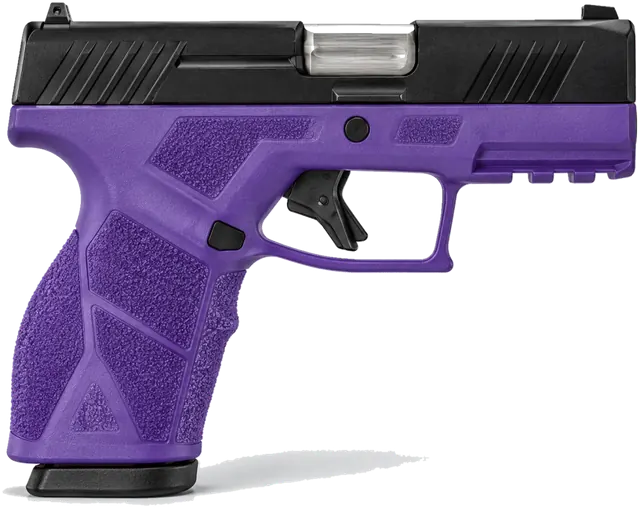
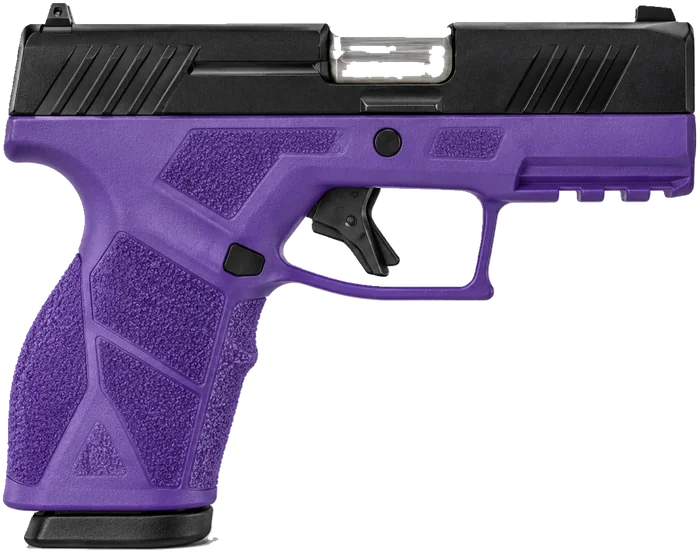
photoreal: remove photographed floor shadows from 3D silhouette meshes and restore crisp high-resolution source textures

diff --git a/img2three/viewer/src/referenceContourData.ts b/img2three/viewer/src/referenceContourData.ts
@@ -1,2 +1,2 @@
-/* Contours vectorized from the original user references, not AI-invented outlines. */
-export default {"compact":{"aspect":1.25984,"contours":[[[0.00469,0.9685],[0.01719,0.97441],[0.0375,0.97638],[0.04375,0.98425],[0.05781,0.98622],[0.07656,0.98425],[0.10938,0.99016],[0.19531,0.98819],[0.22656,0.99409],[0.24531,0.99016],[0.25312,0.99213],[0.27344,0.98622],[0.3,0.98425],[0.30312,0.97638],[0.3125,0.97244],[0.36094,0.96654],[0.37656,0.96063],[0.37969,0.9626],[0.4125,0.95669],[0.42656,0.95079],[0.46406,0.94685],[0.47656,0.94094],[0.48281,0.94291],[0.51562,0.93898],[0.51875,0.93504],[0.54219,0.9311],[0.55156,0.93307],[0.55625,0.92913],[0.57031,0.92913],[0.58594,0.91929],[0.60469,0.92126],[0.61562,0.91535],[0.62031,0.91732],[0.63125,0.90748],[0.63594,0.90945],[0.65469,0.90551],[0.65781,0.89961],[0.64219,0.89961],[0.63906,0.89567],[0.63438,0.89961],[0.63125,0.89567],[0.625,0.89764],[0.61406,0.8878],[0.58437,0.88976],[0.58281,0.88583],[0.44375,0.8878],[0.43906,0.89173],[0.39844,0.89567],[0.39219,0.89961],[0.38594,0.89764],[0.36406,0.90551],[0.35469,0.90551],[0.33125,0.91732],[0.31719,0.92126],[0.31094,0.91929],[0.31094,0.90748],[0.30625,0.90157],[0.31406,0.89173],[0.31719,0.84252],[0.35156,0.6811],[0.37188,0.6437],[0.37344,0.62992],[0.37031,0.62008],[0.37031,0.59252],[0.38438,0.5315],[0.40781,0.50787],[0.43125,0.50394],[0.47969,0.52362],[0.53125,0.53543],[0.7,0.53543],[0.70781,0.52559],[0.70781,0.51575],[0.7,0.49409],[0.7,0.47835],[0.7125,0.38386],[0.72344,0.36614],[0.73438,0.36024],[0.79688,0.36024],[0.8,0.3563],[0.80156,0.34055],[0.82344,0.34055],[0.825,0.35433],[0.82969,0.36024],[0.86094,0.36024],[0.86719,0.34055],[0.88594,0.34055],[0.8875,0.35236],[0.89375,0.36024],[0.92344,0.36024],[0.92812,0.3563],[0.93125,0.34055],[0.94688,0.34055],[0.95312,0.35236],[0.96719,0.35236],[0.98594,0.34646],[0.99219,0.33465],[0.99219,0.29528],[0.99531,0.27165],[0.99531,0.22244],[0.99219,0.20669],[0.99375,0.09646],[0.99219,0.05709],[0.9875,0.04331],[0.97969,0.0374],[0.96719,0.0374],[0.95937,0.01378],[0.91563,0.00787],[0.90781,0.01575],[0.90625,0.0374],[0.64844,0.03937],[0.63906,0.04724],[0.475,0.04724],[0.47031,0.04134],[0.11406,0.04134],[0.11094,0.0374],[0.10469,0.00984],[0.09688,0.00394],[0.08125,0.00394],[0.06875,0.04134],[0.05,0.04134],[0.04219,0.04528],[0.0375,0.05315],[0.01875,0.18701],[0.01875,0.20866],[0.01562,0.21457],[0.01094,0.26575],[0.01719,0.28346],[0.025,0.28937],[0.05469,0.28937],[0.06875,0.29331],[0.09688,0.31299],[0.1125,0.33465],[0.12187,0.3563],[0.12656,0.38189],[0.12656,0.40157],[0.11719,0.44291],[0.11875,0.44882],[0.09688,0.48425],[0.05312,0.57283],[0.03594,0.62008],[0.02813,0.65157],[0.01875,0.72244],[0.01875,0.79921],[0.01094,0.89567],[0.02187,0.90748],[0.03438,0.91142],[0.05312,0.91142],[0.05469,0.91732],[0.03906,0.95669],[0.00937,0.96063]]],"holes":[[[0.40937,0.44094],[0.41406,0.42913],[0.42031,0.42126],[0.43438,0.39567],[0.44062,0.3878],[0.44375,0.3878],[0.44844,0.39173],[0.44844,0.40748],[0.45312,0.41535],[0.49219,0.4311],[0.50625,0.44882],[0.52344,0.48228],[0.52812,0.48819],[0.5375,0.49213],[0.54375,0.49213],[0.54531,0.49409],[0.55469,0.49409],[0.55937,0.48819],[0.55781,0.47638],[0.55937,0.47441],[0.56875,0.47441],[0.57344,0.4685],[0.575,0.4626],[0.55469,0.4252],[0.55,0.41929],[0.53438,0.3878],[0.53438,0.37598],[0.54219,0.3563],[0.54688,0.33858],[0.55,0.33465],[0.55625,0.33465],[0.55781,0.33661],[0.60625,0.33661],[0.60781,0.33858],[0.66563,0.34055],[0.66719,0.34252],[0.67188,0.34252],[0.67969,0.34843],[0.68594,0.3563],[0.69063,0.36811],[0.69063,0.40945],[0.68906,0.41142],[0.68906,0.4252],[0.6875,0.42717],[0.6875,0.43701],[0.68437,0.44882],[0.68437,0.45866],[0.68281,0.46063],[0.68125,0.47835],[0.67656,0.49606],[0.66719,0.50787],[0.6625,0.50984],[0.54375,0.50984],[0.54219,0.50787],[0.52656,0.50787],[0.525,0.50591],[0.51406,0.50591],[0.5125,0.50394],[0.49688,0.50197],[0.49531,0.5],[0.47187,0.49409],[0.43906,0.48031],[0.43438,0.47638],[0.42656,0.47441],[0.41719,0.4685],[0.4125,0.4626],[0.40937,0.45472]],[[0.475,0.05315],[0.48438,0.04921],[0.48906,0.05118],[0.49531,0.05118],[0.49688,0.04921],[0.62344,0.04921],[0.625,0.05118],[0.64531,0.05118],[0.64687,0.05709],[0.64219,0.06299],[0.63594,0.06693],[0.48906,0.06496],[0.47813,0.05906]]],"pixelSize":[640,508]},"purple":{"aspect":1.51844,"contours":[[[0.01143,0.08243],[0.00714,0.09544],[0.00429,0.11931],[0.00429,0.20824],[0.01,0.24946],[0.02,0.26464],[0.03857,0.26681],[0.06,0.26247],[0.34857,0.26247],[0.35,0.26464],[0.36286,0.26247],[0.36429,0.26681],[0.35714,0.28633],[0.35429,0.30369],[0.35429,0.32538],[0.35714,0.34707],[0.36,0.35358],[0.38429,0.36876],[0.39429,0.38395],[0.39571,0.44685],[0.39,0.46204],[0.38857,0.48807],[0.42571,0.54664],[0.43286,0.55098],[0.44,0.55098],[0.45571,0.53796],[0.48286,0.53796],[0.48429,0.54013],[0.51857,0.54013],[0.53143,0.54447],[0.53857,0.55315],[0.55286,0.55315],[0.57143,0.54447],[0.59143,0.52928],[0.60286,0.52928],[0.61286,0.53579],[0.62,0.54664],[0.62714,0.57484],[0.63143,0.58351],[0.63143,0.59219],[0.63571,0.5987],[0.63571,0.60738],[0.64,0.61605],[0.64,0.63124],[0.63571,0.64425],[0.63571,0.6551],[0.64143,0.66377],[0.64714,0.66594],[0.65429,0.67462],[0.66,0.70065],[0.66429,0.70933],[0.66429,0.718],[0.66857,0.72668],[0.66714,0.72885],[0.66857,0.73536],[0.66286,0.76139],[0.68286,0.78525],[0.68857,0.8026],[0.68857,0.81128],[0.69286,0.81779],[0.69286,0.82646],[0.7,0.85249],[0.69857,0.88069],[0.70286,0.88937],[0.70714,0.91106],[0.72,0.93492],[0.72143,0.95445],[0.72857,0.97614],[0.73429,0.98482],[0.76,0.99349],[0.90143,0.99349],[0.90714,0.98698],[0.90143,0.95228],[0.92286,0.94794],[0.93143,0.94143],[0.95143,0.91106],[0.95571,0.89805],[0.95429,0.85466],[0.95143,0.84165],[0.94857,0.83948],[0.94571,0.81128],[0.94143,0.8026],[0.94143,0.79393],[0.93714,0.78525],[0.93714,0.77874],[0.93286,0.77007],[0.92857,0.74837],[0.92286,0.73753],[0.92286,0.72885],[0.91714,0.72017],[0.91571,0.70933],[0.91143,0.70499],[0.90857,0.69197],[0.90429,0.6898],[0.90571,0.68547],[0.89857,0.67245],[0.89714,0.66377],[0.89,0.6551],[0.89,0.64859],[0.88429,0.63991],[0.88286,0.63124],[0.87714,0.62473],[0.87571,0.61388],[0.87143,0.60954],[0.87,0.5987],[0.86429,0.59002],[0.86571,0.58568],[0.86,0.57484],[0.85857,0.56182],[0.85571,0.55965],[0.85571,0.55098],[0.84286,0.49892],[0.83714,0.46204],[0.83429,0.42299],[0.83571,0.37527],[0.84,0.36226],[0.86,0.33406],[0.87429,0.32538],[0.89857,0.31887],[0.94429,0.31887],[0.95571,0.30369],[0.96714,0.30152],[0.97,0.29284],[0.97,0.26464],[0.98,0.24078],[0.98571,0.21692],[0.99286,0.21041],[0.99429,0.13883],[0.98714,0.13449],[0.98429,0.10629],[0.97857,0.09761],[0.97429,0.08243],[0.97,0.07809],[0.95714,0.07809],[0.95571,0.07158],[0.95,0.06508],[0.93143,0.06508],[0.92286,0.07809],[0.91286,0.07592],[0.91857,0.05857],[0.92286,0.02169],[0.92143,0.01735],[0.90714,0.01518],[0.87857,0.0282],[0.86,0.02603],[0.84429,0.03905],[0.78571,0.03905],[0.77429,0.05857],[0.77286,0.06941],[0.77571,0.07375],[0.77429,0.07809],[0.72286,0.07809],[0.72143,0.08026],[0.22286,0.07809],[0.22143,0.06291],[0.21714,0.05857],[0.18,0.04555],[0.14,0.04338],[0.13571,0.03037],[0.13571,0.01302],[0.13143,0.00651],[0.12143,0.00651],[0.11714,0.01302],[0.11143,0.01518],[0.09,0.01518],[0.08714,0.01085],[0.07857,0.01085],[0.07571,0.01518],[0.07143,0.03905],[0.06714,0.04989],[0.06571,0.07592],[0.01857,0.07592]]],"holes":[[[0.42143,0.38178],[0.42857,0.3731],[0.44429,0.36443],[0.45714,0.36443],[0.45857,0.36659],[0.47286,0.36659],[0.47429,0.36876],[0.49143,0.36876],[0.49286,0.37093],[0.51429,0.37093],[0.51571,0.3731],[0.52143,0.3731],[0.52286,0.37527],[0.52286,0.38178],[0.52,0.38829],[0.52,0.40347],[0.51714,0.41215],[0.51714,0.4295],[0.49429,0.47939],[0.49429,0.4859],[0.49571,0.48807],[0.50286,0.48807],[0.50714,0.49241],[0.51,0.50542],[0.50857,0.50759],[0.44143,0.50542],[0.42857,0.49675],[0.41714,0.47939],[0.41143,0.46204],[0.41143,0.40781],[0.41571,0.39262]],[[0.57714,0.40564],[0.58571,0.42516],[0.58571,0.45553],[0.57714,0.48156],[0.56571,0.49892],[0.55857,0.50542],[0.55,0.50976],[0.51857,0.50976],[0.51714,0.50542],[0.53143,0.49024],[0.53571,0.46204],[0.55,0.44469],[0.55143,0.43818],[0.55714,0.4295],[0.56714,0.42733],[0.57,0.42299],[0.57,0.41649],[0.56857,0.41432],[0.57429,0.40564]],[[0.18286,0.12148],[0.18714,0.11714],[0.2,0.11714],[0.20143,0.11931],[0.20429,0.11714],[0.21,0.11714],[0.21143,0.11931],[0.21857,0.11931],[0.22,0.11714],[0.22286,0.11931],[0.25429,0.11931],[0.25571,0.11714],[0.26,0.11714],[0.26143,0.11931],[0.27,0.11931],[0.27286,0.12148],[0.27714,0.12798],[0.27714,0.13666],[0.27286,0.14317],[0.20143,0.14317],[0.2,0.141],[0.19,0.141],[0.18286,0.13015]],[[0.18286,0.2039],[0.18571,0.19957],[0.26429,0.19957],[0.27143,0.2039],[0.27714,0.21258],[0.27714,0.21692],[0.27429,0.22126],[0.19143,0.22126],[0.18286,0.21258]],[[0.30429,0.12364],[0.30857,0.11931],[0.33,0.11931],[0.33429,0.12148],[0.33857,0.12798],[0.33857,0.13666],[0.33286,0.14317],[0.31429,0.14317],[0.30571,0.13449]],[[0.30429,0.20607],[0.30714,0.20174],[0.33,0.20174],[0.33857,0.21258],[0.33857,0.21692],[0.33571,0.22126],[0.31286,0.22126],[0.30857,0.21909],[0.30429,0.21258]],[[0.12286,0.12148],[0.12714,0.11714],[0.14429,0.11931],[0.15,0.12581],[0.15,0.13666],[0.14571,0.14317],[0.14286,0.141],[0.13143,0.141],[0.12286,0.13015]],[[0.12286,0.20607],[0.12714,0.19957],[0.13857,0.19957],[0.14571,0.2039],[0.14857,0.20824],[0.15,0.21909],[0.14857,0.22126],[0.13286,0.22126],[0.12571,0.21692]],[[0.09143,0.0282],[0.09286,0.02386],[0.10857,0.02386],[0.11,0.02603],[0.10571,0.03254],[0.09429,0.03254]]],"pixelSize":[700,461]},"rifle":{"aspect":2.49158,"contours":[[[0.01892,0.61953],[0.03108,0.6532],[0.07162,0.6532],[0.07568,0.63973],[0.08108,0.63636],[0.09595,0.3468],[0.10676,0.3569],[0.15405,0.35354],[0.16081,0.33333],[0.15946,0.3064],[0.16216,0.29966],[0.22432,0.29293],[0.23514,0.26263],[0.23514,0.24242],[0.2473,0.23906],[0.24865,0.22222],[0.25405,0.21886],[0.25676,0.20875],[0.28378,0.21549],[0.28649,0.27609],[0.30811,0.29293],[0.32027,0.33333],[0.32027,0.40067],[0.25,0.71044],[0.28649,0.74074],[0.33784,0.76768],[0.34595,0.73737],[0.33919,0.71717],[0.33919,0.70034],[0.36081,0.57912],[0.37568,0.56566],[0.37027,0.54209],[0.37027,0.52862],[0.38108,0.47811],[0.38649,0.47138],[0.40946,0.47475],[0.46216,0.46465],[0.46757,0.50842],[0.47838,0.67677],[0.4973,0.85522],[0.48649,0.86195],[0.44459,0.85522],[0.43919,0.84848],[0.38919,0.84512],[0.35,0.85522],[0.27973,0.85522],[0.25135,0.86195],[0.26486,0.86869],[0.31622,0.87205],[0.34189,0.86869],[0.35405,0.85859],[0.42568,0.85859],[0.49595,0.87542],[0.4973,0.88552],[0.49324,0.91246],[0.49595,0.93603],[0.52297,0.93939],[0.52838,0.95286],[0.52432,0.9596],[0.52162,0.94949],[0.52027,0.9596],[0.51351,0.96633],[0.50405,0.9596],[0.50405,0.9697],[0.52162,0.96296],[0.52297,0.9697],[0.53514,0.96633],[0.54459,0.97643],[0.55676,0.97643],[0.5527,0.9697],[0.54189,0.9697],[0.54054,0.9596],[0.55405,0.95623],[0.56216,0.94276],[0.54865,0.94276],[0.54324,0.93603],[0.54459,0.92929],[0.55946,0.93266],[0.57297,0.92256],[0.57838,0.92593],[0.58514,0.91582],[0.58243,0.90236],[0.56622,0.88889],[0.56622,0.87879],[0.59324,0.87879],[0.61081,0.86869],[0.64189,0.86532],[0.64054,0.85859],[0.59324,0.86532],[0.56351,0.85522],[0.56757,0.84512],[0.59054,0.82828],[0.6027,0.81145],[0.59324,0.75758],[0.57703,0.62626],[0.56486,0.49832],[0.56081,0.42424],[0.55811,0.41751],[0.56216,0.38384],[0.55676,0.367],[0.55676,0.28283],[0.56486,0.25589],[0.58919,0.25253],[0.59189,0.25926],[0.61892,0.25926],[0.62432,0.25253],[0.63108,0.25926],[0.63649,0.24916],[0.63919,0.25926],[0.64459,0.25926],[0.65,0.24916],[0.6527,0.25926],[0.65676,0.25926],[0.65946,0.24916],[0.66351,0.24916],[0.66486,0.25926],[0.67027,0.25926],[0.67297,0.24916],[0.67703,0.24916],[0.67973,0.25926],[0.68378,0.25926],[0.68919,0.24916],[0.69189,0.25926],[0.6973,0.25926],[0.70405,0.24916],[0.70676,0.25926],[0.71216,0.25926],[0.71757,0.24916],[0.72027,0.25926],[0.72703,0.25926],[0.73243,0.24916],[0.73514,0.25926],[0.74054,0.25926],[0.74595,0.24916],[0.74865,0.25926],[0.82838,0.25926],[0.83108,0.25253],[0.83784,0.25926],[0.84459,0.25926],[0.8473,0.25253],[0.8527,0.25926],[0.9027,0.25926],[0.90811,0.24916],[0.91351,0.18182],[0.99054,0.17508],[0.99459,0.15488],[0.99459,0.09428],[0.98919,0.07744],[0.91351,0.08081],[0.91081,0.06397],[0.91081,0.0202],[0.90811,0.0101],[0.8973,0.0101],[0.89324,0.01684],[0.89054,0.0101],[0.88243,0.0101],[0.87838,0.0202],[0.87432,0.0101],[0.86892,0.0101],[0.86351,0.02357],[0.86081,0.0101],[0.85405,0.0101],[0.84865,0.02357],[0.84459,0.0101],[0.83784,0.0101],[0.83378,0.02357],[0.83108,0.02357],[0.82838,0.0101],[0.82297,0.0101],[0.81757,0.02357],[0.81351,0.0101],[0.80811,0.0101],[0.8027,0.02357],[0.79865,0.0101],[0.79324,0.0101],[0.78919,0.02357],[0.78649,0.02357],[0.78378,0.0101],[0.77838,0.0101],[0.77297,0.02357],[0.77027,0.02357],[0.76757,0.0101],[0.76216,0.0101],[0.75811,0.02357],[0.7527,0.0101],[0.74865,0.0101],[0.74459,0.02357],[0.73784,0.0101],[0.73243,0.0101],[0.72838,0.02357],[0.72432,0.0202],[0.72432,0.0101],[0.71892,0.0101],[0.71351,0.0202],[0.70946,0.0101],[0.69189,0.0101],[0.68784,0.02357],[0.68514,0.02357],[0.68243,0.0101],[0.67703,0.0101],[0.67297,0.02357],[0.67027,0.02357],[0.66757,0.0101],[0.65946,0.0101],[0.65541,0.02357],[0.65135,0.02357],[0.64865,0.0101],[0.64189,0.0101],[0.63919,0.02357],[0.63649,0.02357],[0.63378,0.0101],[0.62838,0.0101],[0.62432,0.02357],[0.62162,0.02357],[0.61892,0.0101],[0.61351,0.0101],[0.60946,0.02357],[0.60676,0.02357],[0.60405,0.0101],[0.5973,0.0101],[0.59459,0.0202],[0.58649,0.0101],[0.5527,0.0101],[0.55,0.02357],[0.54595,0.02357],[0.54324,0.0101],[0.53919,0.0101],[0.53649,0.02357],[0.53243,0.02357],[0.52838,0.0101],[0.52432,0.0101],[0.52162,0.02357],[0.51757,0.02357],[0.51351,0.0101],[0.50946,0.0101],[0.50676,0.02357],[0.50135,0.02357],[0.49865,0.0101],[0.49459,0.0101],[0.49054,0.02357],[0.48378,0.0101],[0.47973,0.0101],[0.47703,0.02357],[0.47297,0.02357],[0.46892,0.0101],[0.46216,0.02357],[0.45541,0.0101],[0.44865,0.02357],[0.44595,0.02357],[0.44324,0.0101],[0.43919,0.0101],[0.43649,0.02357],[0.43243,0.02357],[0.42838,0.0101],[0.42162,0.02357],[0.41486,0.0101],[0.40946,0.01347],[0.40811,0.02357],[0.3973,0.0101],[0.39459,0.02694],[0.39189,0.02694],[0.38784,0.0101],[0.38378,0.0101],[0.37973,0.02694],[0.37568,0.02357],[0.37297,0.0101],[0.31486,0.01347],[0.30946,0.02694],[0.29189,0.02694],[0.28919,0.08081],[0.27027,0.08418],[0.25946,0.09428],[0.25405,0.07407],[0.08378,0.08081],[0.07297,0.06061],[0.02703,0.06061],[0.01216,0.10101],[0.00405,0.14478],[0.00405,0.19192],[0.00676,0.22896],[0.01081,0.24242]]],"holes":[[[0.39324,0.367],[0.39865,0.35354],[0.40135,0.3569],[0.40135,0.40741],[0.40405,0.42424],[0.41081,0.44444],[0.41486,0.44444],[0.41486,0.44108],[0.41216,0.43434],[0.40946,0.41751],[0.40946,0.38721],[0.41486,0.36027],[0.42297,0.34343],[0.42703,0.3468],[0.44459,0.3468],[0.45,0.35354],[0.45811,0.38047],[0.45811,0.41414],[0.44865,0.45118],[0.40405,0.45455],[0.39865,0.44781],[0.39054,0.42424],[0.39054,0.38047]],[[0.65946,0.08418],[0.66351,0.07744],[0.71486,0.07744],[0.71757,0.08418],[0.71757,0.09428],[0.71622,0.09764],[0.66351,0.09764]],[[0.74054,0.08754],[0.74324,0.07744],[0.76081,0.07744],[0.76351,0.08418],[0.75541,0.09764],[0.74459,0.09764]],[[0.10811,0.2862],[0.11081,0.2862],[0.11486,0.2963],[0.11486,0.31313],[0.11081,0.32323],[0.10541,0.32323],[0.1027,0.31313],[0.1027,0.30303]]],"pixelSize":[740,297]}} as const;
+/* Original user reference alpha silhouettes, resegmented to exclude photographic ground shadows. */
+export default {"compact":{"aspect":1.26582,"contours":[[[0.00429,0.90597],[0.01571,0.91863],[0.02714,0.92224],[0.04571,0.92224],[0.04857,0.92586],[0.03429,0.96926],[0.04,0.98373],[0.03857,0.98915],[0.04143,0.99096],[0.23286,0.99277],[0.29286,0.98553],[0.31,0.97468],[0.30429,0.97288],[0.30286,0.97649],[0.29857,0.97649],[0.29571,0.97288],[0.30143,0.95841],[0.30429,0.92948],[0.30143,0.9132],[0.30857,0.90235],[0.30857,0.87884],[0.31143,0.87342],[0.31143,0.85714],[0.31714,0.82278],[0.32286,0.80832],[0.32143,0.8047],[0.33143,0.76854],[0.33,0.76673],[0.34,0.72875],[0.34571,0.69259],[0.35286,0.6745],[0.36714,0.65099],[0.36857,0.63834],[0.36571,0.62929],[0.36571,0.59855],[0.36857,0.57866],[0.38,0.53707],[0.40429,0.51356],[0.43143,0.51175],[0.46571,0.52622],[0.52143,0.54069],[0.69571,0.5425],[0.70429,0.53526],[0.70429,0.51899],[0.69857,0.50633],[0.69714,0.48463],[0.71,0.38879],[0.72,0.37071],[0.73143,0.36528],[0.79286,0.36528],[0.79714,0.36166],[0.8,0.34358],[0.82143,0.34358],[0.82429,0.34901],[0.82429,0.35986],[0.82714,0.36347],[0.86,0.36347],[0.86286,0.35805],[0.86286,0.3472],[0.86571,0.34358],[0.88429,0.34358],[0.88714,0.34901],[0.88714,0.35986],[0.89,0.36347],[0.92429,0.36347],[0.92714,0.35986],[0.93,0.34358],[0.94571,0.34358],[0.95143,0.35624],[0.96571,0.35624],[0.98429,0.35081],[0.99,0.34177],[0.99429,0.26582],[0.99429,0.23327],[0.99143,0.20976],[0.99143,0.06872],[0.98714,0.04521],[0.98143,0.03978],[0.96714,0.03978],[0.95714,0.01447],[0.93429,0.01085],[0.91,0.01266],[0.90571,0.03978],[0.65143,0.03978],[0.63857,0.04702],[0.64429,0.05244],[0.64429,0.05967],[0.63429,0.06872],[0.48714,0.06691],[0.48714,0.09042],[0.49143,0.09403],[0.48143,0.10669],[0.47714,0.10669],[0.47429,0.09222],[0.47714,0.09042],[0.47571,0.06691],[0.48286,0.0651],[0.47714,0.06329],[0.47143,0.05606],[0.47143,0.04882],[0.46714,0.0434],[0.10714,0.0434],[0.09857,0.01085],[0.09286,0.00542],[0.07571,0.00542],[0.06286,0.0434],[0.04286,0.0434],[0.03286,0.05244],[0.03,0.06148],[0.01286,0.18626],[0.01286,0.21338],[0.00857,0.22423],[0.00571,0.27486],[0.01143,0.28752],[0.01571,0.29114],[0.05571,0.29476],[0.07286,0.30199],[0.08714,0.31284],[0.10429,0.33454],[0.11714,0.36347],[0.12143,0.38879],[0.12143,0.40506],[0.11286,0.4557],[0.10857,0.45931],[0.09143,0.49548],[0.08714,0.4991],[0.08714,0.50452],[0.07286,0.52622],[0.05286,0.56781],[0.03714,0.60579],[0.03571,0.61664],[0.02571,0.64376],[0.02429,0.65823],[0.02143,0.66184],[0.02286,0.66727],[0.02,0.67089],[0.01286,0.72333],[0.01,0.80108],[0.01286,0.80832],[0.01,0.81374],[0.00857,0.87342]]],"holes":[[[0.40286,0.44846],[0.41,0.43219],[0.42571,0.40868],[0.43429,0.39241],[0.43857,0.3906],[0.44286,0.39241],[0.44714,0.39783],[0.44571,0.4123],[0.44857,0.41953],[0.46143,0.42315],[0.46571,0.42676],[0.49143,0.43761],[0.50143,0.45027],[0.51,0.46835],[0.51857,0.48101],[0.52,0.48644],[0.52571,0.49367],[0.53571,0.49729],[0.54143,0.49729],[0.54286,0.4991],[0.55143,0.4991],[0.55429,0.49548],[0.55429,0.48101],[0.55571,0.4792],[0.56429,0.4792],[0.57,0.47378],[0.57,0.46655],[0.53857,0.4123],[0.53,0.39241],[0.53,0.37975],[0.54429,0.33816],[0.6,0.33996],[0.60143,0.34177],[0.60286,0.33996],[0.62714,0.33996],[0.62857,0.34177],[0.66429,0.34358],[0.67857,0.35262],[0.68714,0.36528],[0.69,0.37613],[0.68857,0.43038],[0.68714,0.43219],[0.68571,0.44846],[0.68286,0.4557],[0.68286,0.46835],[0.67857,0.48644],[0.67857,0.49367],[0.67571,0.50271],[0.66571,0.51537],[0.66,0.51899],[0.54286,0.51899],[0.54143,0.51718],[0.53,0.51718],[0.52857,0.51537],[0.52571,0.51718],[0.52429,0.51537],[0.50714,0.51356],[0.5,0.50995],[0.48571,0.50814],[0.45571,0.49548],[0.45143,0.49548],[0.44286,0.49005],[0.43857,0.49005],[0.43429,0.48644],[0.41429,0.4774],[0.40571,0.46655],[0.40286,0.45931]],[[0.63571,0.08861],[0.63571,0.09403],[0.63286,0.10127],[0.63429,0.10488],[0.63429,0.12297],[0.63143,0.13201],[0.62429,0.13924],[0.61714,0.13924],[0.60714,0.1302],[0.60571,0.13562],[0.60143,0.13562],[0.6,0.13743],[0.57429,0.13743],[0.57286,0.14286],[0.56714,0.14286],[0.56429,0.13924],[0.49,0.13924],[0.48714,0.13562],[0.48714,0.12839],[0.49,0.12477],[0.49429,0.12477],[0.49429,0.11754],[0.50429,0.1085],[0.50857,0.11031],[0.53714,0.1085],[0.54143,0.11212],[0.54571,0.11031],[0.59714,0.11031],[0.59857,0.11212],[0.60429,0.11212],[0.60714,0.11573],[0.60857,0.11392],[0.61286,0.11392],[0.61286,0.09946],[0.61429,0.09765],[0.61143,0.09584],[0.61143,0.09042],[0.61571,0.0868],[0.61714,0.08137],[0.63,0.08137],[0.63286,0.08318]],[[0.49857,0.08318],[0.5,0.08137],[0.55,0.08137],[0.55143,0.08318],[0.56286,0.08137],[0.56571,0.08499],[0.56571,0.08861],[0.56286,0.09222],[0.55714,0.09222],[0.55571,0.09584],[0.52429,0.09584],[0.52,0.09222],[0.50286,0.09222],[0.49857,0.08861]]],"pixelSize":[700,553]},"purple":{"aspect":1.52047,"contours":[[[0.01154,0.08577],[0.00641,0.10721],[0.00385,0.14425],[0.00513,0.20468],[0.01026,0.24366],[0.0141,0.25536],[0.02308,0.26316],[0.36282,0.26121],[0.3641,0.27096],[0.35769,0.2885],[0.35513,0.30409],[0.35513,0.32359],[0.35897,0.34698],[0.36154,0.35283],[0.3859,0.36842],[0.39487,0.38207],[0.39744,0.39181],[0.39744,0.44444],[0.39231,0.45614],[0.38974,0.48538],[0.39744,0.50097],[0.42949,0.54776],[0.44231,0.54776],[0.45513,0.53606],[0.48846,0.53606],[0.52821,0.53996],[0.53974,0.55166],[0.55128,0.55166],[0.56923,0.54386],[0.58718,0.52827],[0.60641,0.52827],[0.61538,0.53606],[0.62051,0.54386],[0.62564,0.56335],[0.62949,0.5692],[0.62949,0.57895],[0.63718,0.59844],[0.63718,0.60819],[0.64103,0.61404],[0.63974,0.63548],[0.6359,0.65107],[0.64103,0.66082],[0.64872,0.66472],[0.65641,0.67641],[0.65769,0.68616],[0.66154,0.69201],[0.66154,0.70175],[0.66538,0.7076],[0.66538,0.71735],[0.66795,0.72125],[0.66795,0.74269],[0.6641,0.75828],[0.67051,0.76998],[0.67564,0.77193],[0.68333,0.78168],[0.6859,0.79532],[0.68974,0.80117],[0.68974,0.81092],[0.69359,0.81676],[0.69359,0.82651],[0.69744,0.83236],[0.70128,0.85185],[0.7,0.87914],[0.71154,0.91813],[0.72051,0.93177],[0.72051,0.94737],[0.72949,0.97466],[0.73462,0.98246],[0.75641,0.99025],[0.90128,0.9922],[0.90641,0.98635],[0.9,0.94932],[0.91795,0.94737],[0.93077,0.93957],[0.94744,0.91618],[0.95385,0.90253],[0.95385,0.85575],[0.95,0.84016],[0.94744,0.83821],[0.94744,0.82261],[0.94487,0.81871],[0.94103,0.79337],[0.93718,0.78752],[0.93333,0.76413],[0.92821,0.75439],[0.92051,0.72515],[0.91667,0.72125],[0.91667,0.71345],[0.91154,0.70565],[0.91026,0.69591],[0.90513,0.69006],[0.90256,0.67836],[0.89744,0.67446],[0.89615,0.66277],[0.88974,0.65692],[0.88846,0.64522],[0.88333,0.64133],[0.88205,0.62963],[0.87692,0.62573],[0.87692,0.61793],[0.87051,0.60819],[0.86923,0.59649],[0.8641,0.59259],[0.8641,0.5809],[0.86026,0.577],[0.86026,0.56725],[0.85513,0.5575],[0.85513,0.54971],[0.84231,0.49708],[0.83333,0.42105],[0.83462,0.37622],[0.83974,0.36062],[0.85897,0.33333],[0.88333,0.31969],[0.8859,0.32164],[0.90256,0.31579],[0.94231,0.31774],[0.95769,0.30019],[0.96667,0.30019],[0.96923,0.29435],[0.96923,0.26316],[0.98205,0.23392],[0.9859,0.21248],[0.99231,0.20858],[0.99487,0.18324],[0.99487,0.14425],[0.99359,0.1384],[0.98718,0.1345],[0.98333,0.10526],[0.97821,0.09747],[0.97308,0.07992],[0.95641,0.07797],[0.95513,0.07212],[0.95,0.06628],[0.93205,0.06628],[0.92692,0.07018],[0.92308,0.07992],[0.91154,0.07797],[0.91667,0.06628],[0.92179,0.02924],[0.92051,0.01754],[0.91538,0.01949],[0.91282,0.01559],[0.90769,0.01559],[0.88205,0.02729],[0.85897,0.02729],[0.85,0.03704],[0.83974,0.04094],[0.7859,0.03899],[0.77564,0.05848],[0.77436,0.06823],[0.77692,0.07602],[0.76667,0.07992],[0.22179,0.07797],[0.22051,0.06238],[0.21026,0.05653],[0.17692,0.04483],[0.14103,0.04483],[0.1359,0.03509],[0.1359,0.0117],[0.13077,0.00585],[0.12308,0.00585],[0.11795,0.01365],[0.08974,0.01559],[0.0859,0.00975],[0.08077,0.00975],[0.07692,0.01559],[0.06795,0.05068],[0.06667,0.07797],[0.02179,0.07602],[0.01667,0.07797]]],"holes":[[[0.57821,0.40351],[0.58205,0.40936],[0.58718,0.423],[0.58718,0.46004],[0.58462,0.46394],[0.58205,0.47563],[0.56923,0.49708],[0.55641,0.50877],[0.55256,0.50877],[0.54615,0.51267],[0.51795,0.51072],[0.51667,0.50877],[0.51667,0.50097],[0.53077,0.48733],[0.53333,0.46394],[0.55,0.44055],[0.55641,0.4269],[0.56667,0.42495],[0.56923,0.42105],[0.56795,0.41131],[0.57179,0.40546]],[[0.41538,0.38986],[0.42821,0.37037],[0.43974,0.36257],[0.47308,0.36257],[0.47436,0.36452],[0.50641,0.36647],[0.50769,0.36842],[0.52308,0.37037],[0.52564,0.37427],[0.52564,0.38012],[0.52179,0.38986],[0.52308,0.40156],[0.52051,0.40546],[0.51923,0.42885],[0.51538,0.4386],[0.51026,0.44639],[0.50385,0.46394],[0.49615,0.47758],[0.49615,0.48343],[0.49744,0.48538],[0.50385,0.48538],[0.50897,0.49123],[0.51026,0.50682],[0.50897,0.50877],[0.44744,0.50877],[0.44615,0.50682],[0.43718,0.50487],[0.42308,0.49318],[0.41538,0.47953],[0.40897,0.45614],[0.41026,0.40936],[0.41154,0.40741],[0.41154,0.39961]],[[0.30256,0.20663],[0.30769,0.19883],[0.33077,0.19883],[0.33718,0.20468],[0.33974,0.21053],[0.33974,0.21832],[0.33718,0.22222],[0.31154,0.22222],[0.31026,0.22027],[0.30641,0.22027],[0.30385,0.21637]],[[0.18077,0.20663],[0.18462,0.19883],[0.26923,0.19883],[0.27821,0.21053],[0.27949,0.21637],[0.27564,0.22222],[0.18974,0.22222],[0.18205,0.21637]],[[0.12179,0.20468],[0.12436,0.19883],[0.14359,0.19883],[0.15128,0.21053],[0.15128,0.21832],[0.14872,0.22222],[0.13077,0.22222],[0.12692,0.22027],[0.12179,0.21248]],[[0.30256,0.12476],[0.30641,0.11696],[0.31026,0.11501],[0.32949,0.11501],[0.33333,0.11696],[0.33974,0.12671],[0.34103,0.1306],[0.33974,0.13255],[0.34103,0.1345],[0.33846,0.14035],[0.33333,0.14425],[0.31282,0.14425],[0.30385,0.13255]],[[0.18077,0.12086],[0.18462,0.11501],[0.26923,0.11501],[0.27564,0.12086],[0.27949,0.12865],[0.27949,0.1345],[0.27436,0.14425],[0.19231,0.14425],[0.1859,0.1384],[0.18077,0.1306]],[[0.12179,0.12086],[0.12564,0.11501],[0.14359,0.11501],[0.15128,0.12476],[0.15128,0.1384],[0.14615,0.14425],[0.13333,0.14425],[0.12179,0.1306]],[[0.09103,0.02534],[0.09359,0.02144],[0.10897,0.02144],[0.11026,0.02339],[0.11026,0.02924],[0.10641,0.03509],[0.09487,0.03509],[0.09103,0.03119]]],"pixelSize":[780,513]},"rifle":{"aspect":2.7907,"contours":[[[0.01905,0.68439],[0.02262,0.71429],[0.03095,0.7309],[0.07262,0.7309],[0.07619,0.71761],[0.07976,0.71761],[0.08333,0.69435],[0.0869,0.5515],[0.09405,0.39867],[0.09643,0.3887],[0.10952,0.40199],[0.15476,0.39535],[0.16071,0.37542],[0.15952,0.34219],[0.1619,0.33555],[0.22619,0.32558],[0.23571,0.29236],[0.23571,0.27243],[0.24643,0.2691],[0.25119,0.24252],[0.25476,0.24252],[0.25833,0.23256],[0.28333,0.2392],[0.2881,0.31561],[0.3,0.31894],[0.30833,0.3289],[0.31905,0.36213],[0.32143,0.37874],[0.32143,0.4485],[0.31786,0.47508],[0.25119,0.7907],[0.25357,0.80399],[0.33571,0.86047],[0.34048,0.85714],[0.34524,0.82392],[0.33929,0.80399],[0.33929,0.78405],[0.35952,0.65449],[0.36429,0.6412],[0.37262,0.6412],[0.37619,0.63123],[0.37024,0.60797],[0.37024,0.59136],[0.37619,0.5515],[0.38571,0.52824],[0.40952,0.53156],[0.46429,0.52159],[0.47857,0.75415],[0.4881,0.84053],[0.4881,0.86379],[0.49881,0.95017],[0.5,0.98007],[0.57381,0.98339],[0.55238,0.97674],[0.55119,0.96678],[0.6,0.91694],[0.60238,0.90033],[0.59048,0.82724],[0.59048,0.81063],[0.5869,0.79734],[0.57976,0.7309],[0.55833,0.46844],[0.55833,0.4485],[0.5631,0.43522],[0.55714,0.41528],[0.55595,0.33223],[0.55833,0.30565],[0.56548,0.28571],[0.58929,0.28239],[0.59167,0.28904],[0.61905,0.28904],[0.625,0.28239],[0.62619,0.28904],[0.63214,0.28904],[0.63333,0.27907],[0.6369,0.27907],[0.63929,0.28904],[0.64524,0.28904],[0.65,0.27907],[0.65238,0.28904],[0.65833,0.28904],[0.65952,0.27907],[0.6631,0.27907],[0.66548,0.28904],[0.67143,0.28904],[0.67619,0.27907],[0.67857,0.28904],[0.68452,0.28904],[0.68929,0.27907],[0.69286,0.28904],[0.69881,0.28904],[0.70119,0.27907],[0.70476,0.27907],[0.70595,0.28904],[0.7131,0.28904],[0.71786,0.27907],[0.72024,0.28904],[0.72738,0.28904],[0.73214,0.27907],[0.73452,0.28904],[0.74167,0.28904],[0.74286,0.27907],[0.74643,0.27907],[0.74881,0.28904],[0.82857,0.28904],[0.83095,0.28239],[0.83571,0.28904],[0.84524,0.28904],[0.84762,0.28239],[0.85238,0.28904],[0.90357,0.28904],[0.90952,0.2691],[0.90833,0.25914],[0.9131,0.20266],[0.92738,0.20598],[0.99048,0.19601],[0.99405,0.17608],[0.99405,0.10299],[0.98929,0.0897],[0.9131,0.09302],[0.91071,0.06977],[0.91071,0.01993],[0.90833,0.01329],[0.89762,0.01329],[0.89524,0.01993],[0.88452,0.01329],[0.87976,0.02326],[0.875,0.01329],[0.86905,0.01329],[0.86429,0.02658],[0.86071,0.02326],[0.86071,0.01329],[0.85357,0.01329],[0.84881,0.02658],[0.84524,0.01329],[0.8381,0.01329],[0.83452,0.02658],[0.83095,0.02658],[0.82976,0.01329],[0.82381,0.01329],[0.81905,0.02658],[0.81548,0.02658],[0.81429,0.01329],[0.80833,0.01329],[0.80357,0.02658],[0.79881,0.01329],[0.79405,0.01329],[0.79048,0.0299],[0.7869,0.0299],[0.78333,0.01329],[0.77857,0.01329],[0.775,0.02658],[0.77024,0.02658],[0.76786,0.01329],[0.7619,0.01661],[0.75952,0.02658],[0.75595,0.02658],[0.75357,0.01329],[0.74762,0.01661],[0.74524,0.02658],[0.74167,0.02658],[0.73929,0.01329],[0.73333,0.01329],[0.72857,0.02658],[0.72619,0.02658],[0.72381,0.01329],[0.71548,0.02326],[0.71071,0.01329],[0.69286,0.01329],[0.68929,0.02658],[0.68452,0.02658],[0.68214,0.01329],[0.67857,0.01329],[0.675,0.02658],[0.67024,0.02658],[0.66786,0.01329],[0.66071,0.01329],[0.65714,0.02658],[0.65119,0.02658],[0.64881,0.01329],[0.64405,0.01329],[0.64048,0.02658],[0.63571,0.02658],[0.63333,0.01329],[0.62976,0.01329],[0.62619,0.02658],[0.62143,0.02658],[0.61905,0.01329],[0.61429,0.01329],[0.61071,0.02658],[0.60714,0.02658],[0.60476,0.01329],[0.59881,0.01329],[0.59643,0.02326],[0.59048,0.02326],[0.5881,0.01329],[0.55357,0.01329],[0.55,0.0299],[0.54762,0.0299],[0.54405,0.01329],[0.54048,0.01329],[0.5369,0.0299],[0.53214,0.0299],[0.52857,0.01329],[0.525,0.01329],[0.52143,0.0299],[0.51786,0.0299],[0.51429,0.01329],[0.51071,0.01329],[0.50714,0.0299],[0.50238,0.0299],[0.49881,0.01329],[0.49405,0.01329],[0.49167,0.0299],[0.4881,0.0299],[0.48452,0.01329],[0.48095,0.01329],[0.47738,0.0299],[0.47381,0.0299],[0.47024,0.01329],[0.46667,0.01329],[0.4631,0.0299],[0.46071,0.0299],[0.45714,0.01329],[0.45357,0.01329],[0.45,0.0299],[0.44762,0.0299],[0.44405,0.01329],[0.44048,0.01329],[0.4369,0.0299],[0.43333,0.0299],[0.42976,0.01329],[0.425,0.01661],[0.42262,0.02658],[0.41905,0.02658],[0.41667,0.01329],[0.4131,0.01329],[0.40952,0.0299],[0.40595,0.0299],[0.40238,0.01329],[0.39881,0.01329],[0.39524,0.03322],[0.39286,0.03322],[0.3881,0.01329],[0.38333,0.01329],[0.38095,0.0299],[0.37738,0.0299],[0.37381,0.01329],[0.31548,0.01661],[0.31071,0.03322],[0.29286,0.03322],[0.29167,0.08638],[0.28929,0.09302],[0.27143,0.09635],[0.25833,0.10631],[0.25595,0.0897],[0.25119,0.08306],[0.08452,0.09302],[0.075,0.06977],[0.02857,0.06977],[0.02381,0.07641],[0.02024,0.10299],[0.0119,0.1196],[0.00476,0.16279],[0.00476,0.21927],[0.0119,0.27575],[0.0119,0.33887],[0.01548,0.3887],[0.01548,0.46512],[0.01905,0.54817]]],"holes":[[[0.39762,0.39535],[0.4,0.39535],[0.40238,0.40199],[0.40238,0.4485],[0.40357,0.45183],[0.40357,0.46179],[0.40595,0.47841],[0.4119,0.49502],[0.4131,0.49502],[0.4131,0.49169],[0.41071,0.48505],[0.41071,0.47841],[0.40833,0.46844],[0.40833,0.43854],[0.41071,0.4186],[0.41548,0.39867],[0.42143,0.38538],[0.44286,0.38538],[0.44881,0.39203],[0.45714,0.41528],[0.46071,0.43854],[0.46071,0.45847],[0.45833,0.46844],[0.45833,0.47508],[0.45,0.50831],[0.40476,0.51495],[0.39762,0.50166],[0.39048,0.47841],[0.39048,0.42193]],[[0.10833,0.31894],[0.1131,0.32226],[0.11667,0.33555],[0.11667,0.35216],[0.11548,0.3588],[0.11071,0.36877],[0.10595,0.36877],[0.10238,0.35216],[0.10238,0.33555]],[[0.74048,0.09302],[0.74286,0.08638],[0.7631,0.08638],[0.76429,0.0897],[0.76429,0.09967],[0.75714,0.11296],[0.74405,0.11296],[0.74167,0.10631]],[[0.65952,0.09302],[0.6619,0.08638],[0.71667,0.08638],[0.71905,0.09302],[0.71905,0.10963],[0.71786,0.11296],[0.70357,0.11296],[0.70238,0.11628],[0.66667,0.11628],[0.6631,0.11296],[0.65952,0.10299]]],"pixelSize":[840,301]}} as const;
